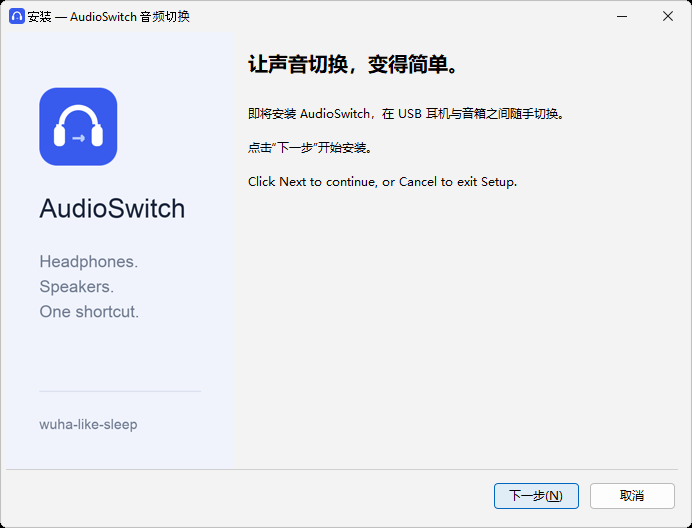
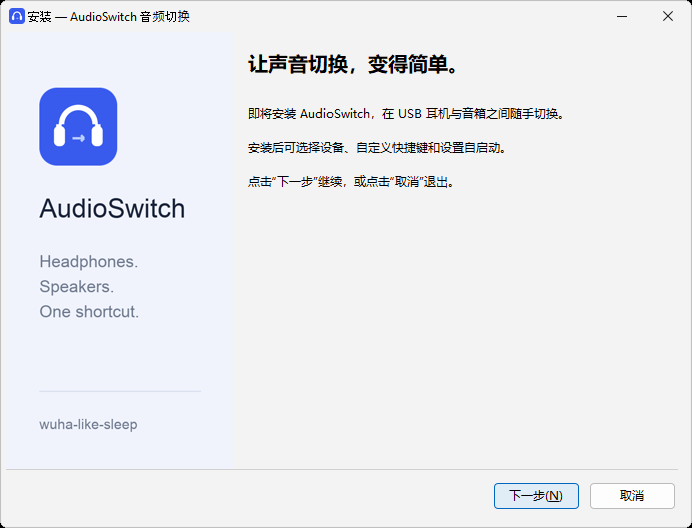
Synchronize the homepage with the final preview installer and screenshots [skip ci]

Changed region(s): [[0.3642, 0.2424, 0.7283, 0.303], [0.3642, 0.3333, 0.7587, 0.3636]]

diff --git a/README.md b/README.md
@@ -59,9 +59,9 @@
 
 | 你的电脑 | 下载 |
 | :--- | :--- |
-| Intel / AMD 64 位电脑 · 大多数用户选择此项 | **[Windows x64](https://github.com/wuha-like-sleep/AudioSwitch/releases/download/v0.2.1-preview.1/AudioSwitch-Setup-win-x64.exe)** |
-| Windows ARM64 电脑 | [Windows ARM64](https://github.com/wuha-like-sleep/AudioSwitch/releases/download/v0.2.1-preview.1/AudioSwitch-Setup-win-arm64.exe) |
-| Windows 10 32 位电脑 | [Windows x86](https://github.com/wuha-like-sleep/AudioSwitch/releases/download/v0.2.1-preview.1/AudioSwitch-Setup-win-x86.exe) |
+| Intel / AMD 64 位电脑 · 大多数用户选择此项 | **[Windows x64](https://github.com/wuha-like-sleep/AudioSwitch/releases/download/v0.2.1-preview.2/AudioSwitch-Setup-win-x64.exe)** |
+| Windows ARM64 电脑 | [Windows ARM64](https://github.com/wuha-like-sleep/AudioSwitch/releases/download/v0.2.1-preview.2/AudioSwitch-Setup-win-arm64.exe) |
+| Windows 10 32 位电脑 | [Windows x86](https://github.com/wuha-like-sleep/AudioSwitch/releases/download/v0.2.1-preview.2/AudioSwitch-Setup-win-x86.exe) |
 
 运行安装向导，选择安装位置、自启动和桌面快捷方式。程序默认安装到当前用户目录，安装完成后从开始菜单打开 **AudioSwitch**。
 
